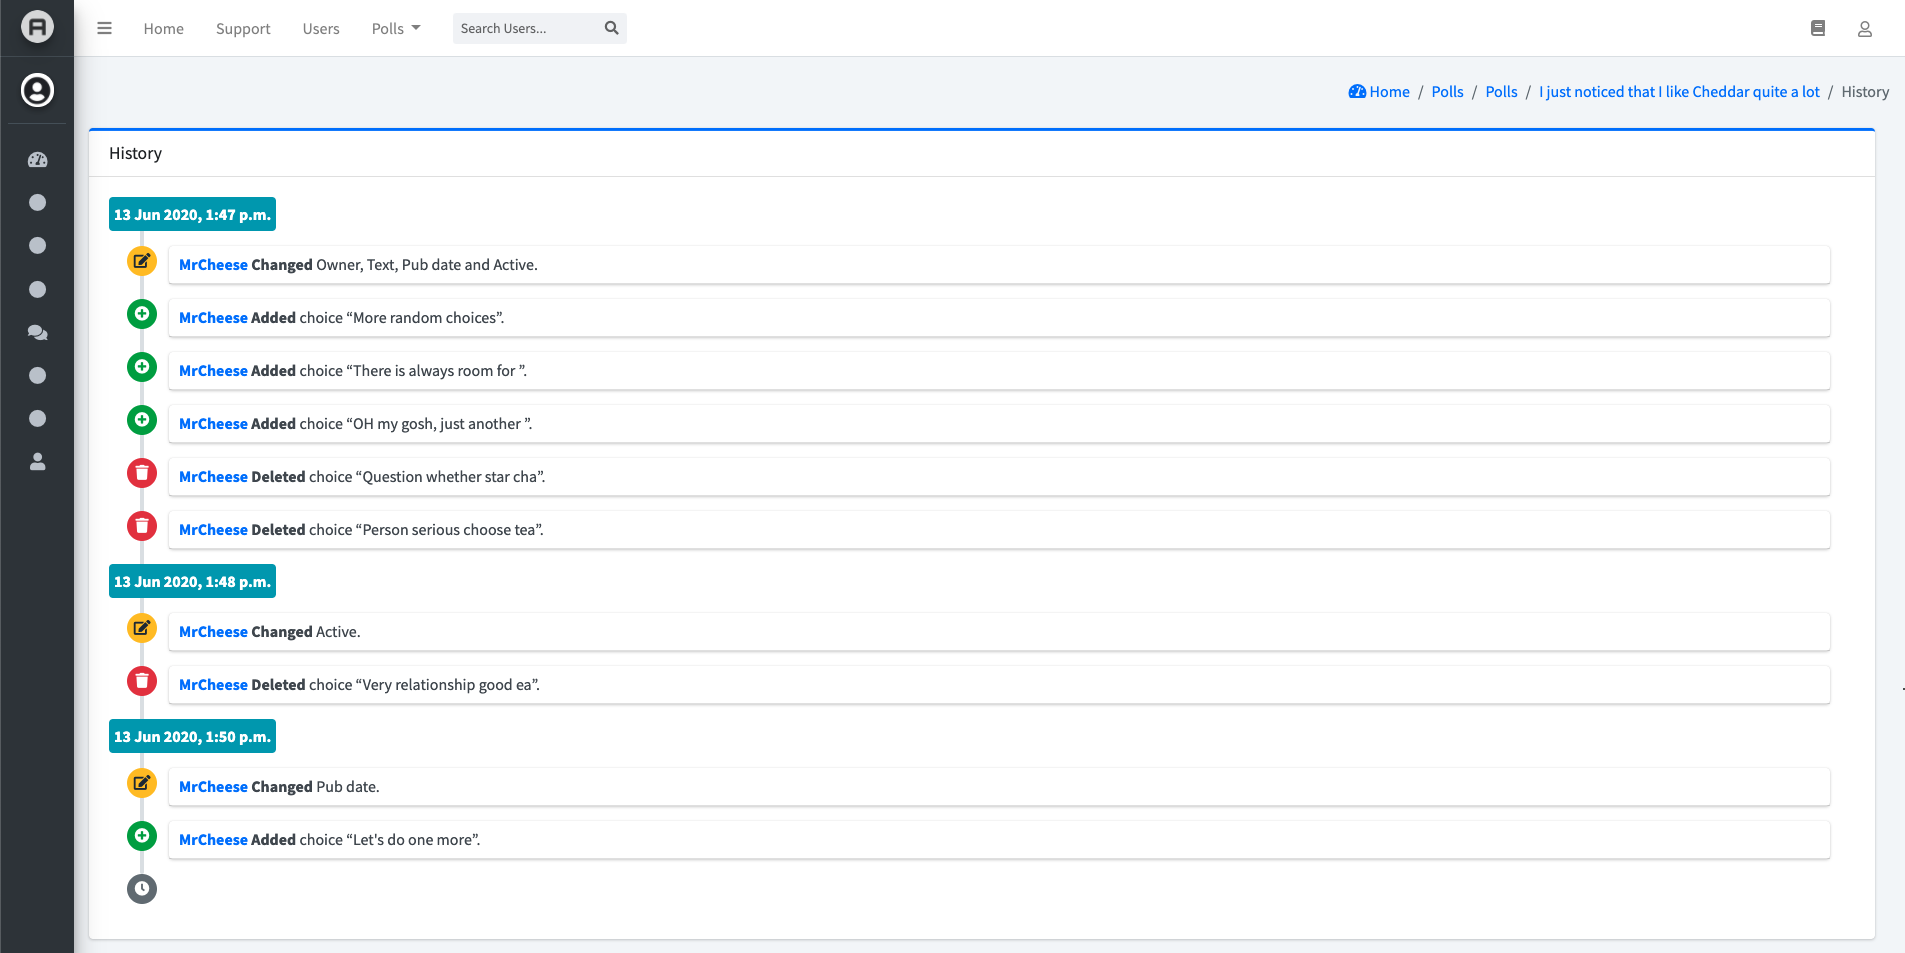
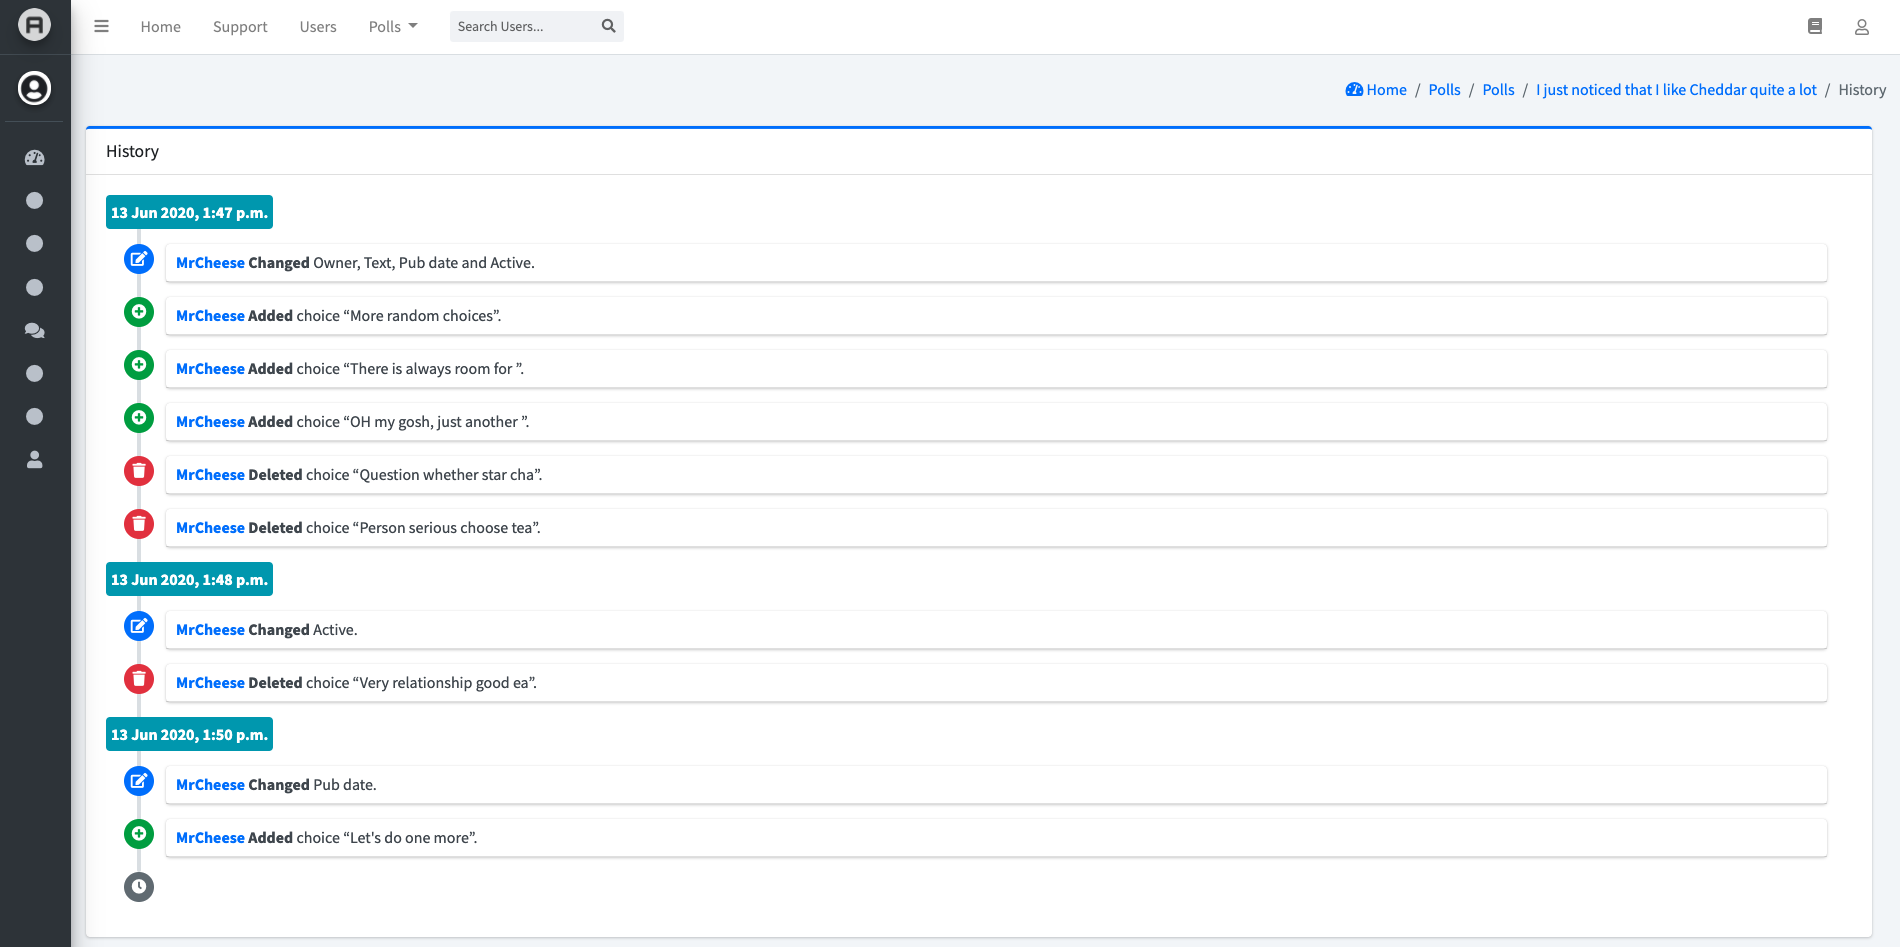
Change color in history page

diff --git a/jazzmin/templatetags/jazzmin.py b/jazzmin/templatetags/jazzmin.py
@@ -366,7 +366,7 @@ def get_action_color(message: str) -> str:
     elif message.startswith('Deleted'):
         return "danger"
     else:
-        return "warning"
+        return "blue"
 
 
 @register.filter
@@ -375,6 +375,10 @@ def style_bold_first_word(message: str) -> str:
     Wraps first word in a message with <strong> HTML element
     """
     message_words = message.split()
+
+    if not len(message_words):
+        return ''
+
     message_words[0] = '<strong>{}</strong>'.format(message_words[0])
 
     message = ' '.join([word for word in message_words])
